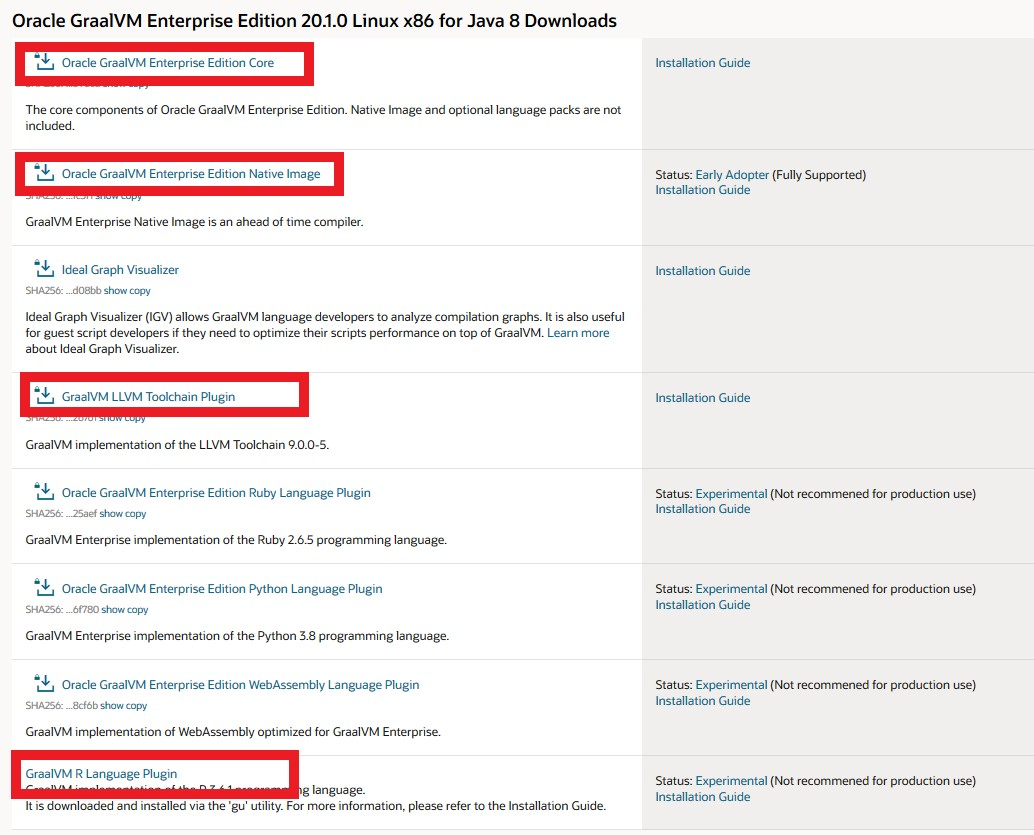
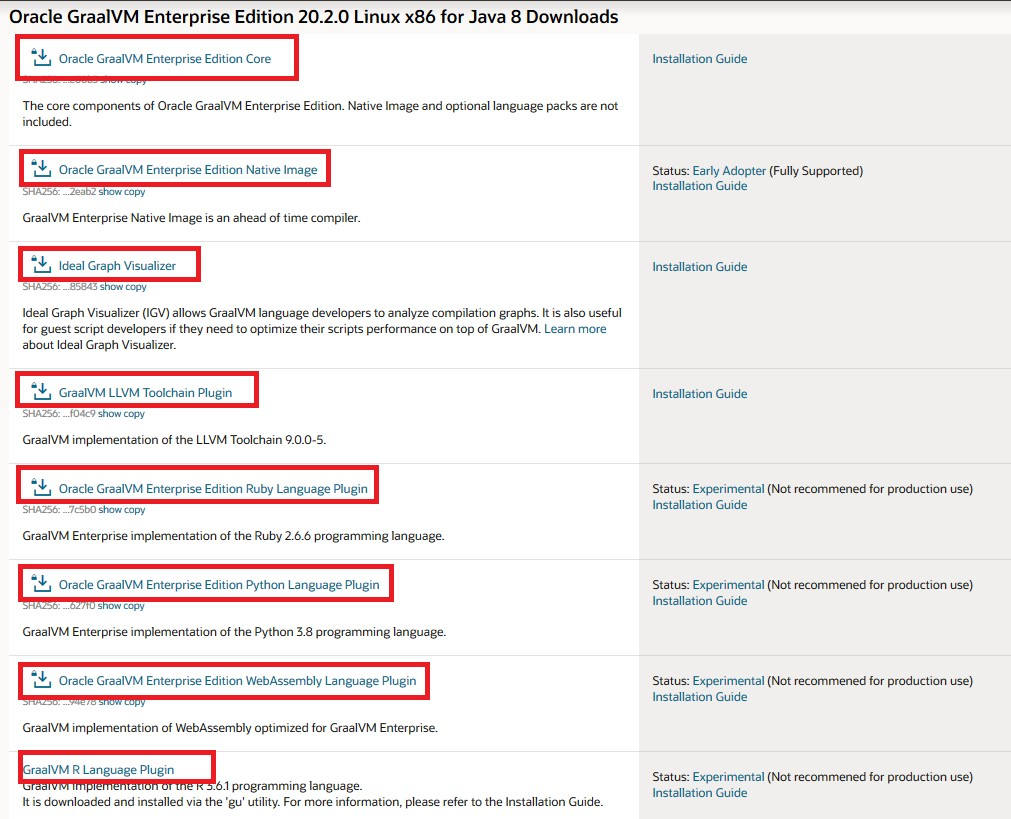
updated

diff --git a/README.md b/README.md
@@ -55,13 +55,14 @@ _Wednesday, 9 December 2020_
 <br/>
 
 (3)OSを選択後、以下のコンポーネントをダウンロードします。赤字表示のコンポーネントはこの演習に必要です。その他のオプショナルコンポーネントは演習では使いませんが、今後GraalVMの多くの機能を試したい場合はダウンロードしておいてください。
-*	<span style="color: red; ">Oracle GraalVM Enterprise Edition Core（必須）</span>
-*	<font color="Red">Oracle GraalVM Enterprise Edition Native Image（必須）</font>
+*	Oracle GraalVM Enterprise Edition Core（必須）
+*	Oracle GraalVM Enterprise Edition Native Image（必須）
+* Ideal Graph Visualizer（オプショナル）
 *	GraalVM LLVM Toolchain Plugin（オプショナル）
 *	Oracle GraalVM Enterprise Edition Ruby Language Plugin（オプショナル）
 * GraalVM Enterprise Edition Python Language Plugin（オプショナル）
 *	Oracle GraalVM Enterprise Edition WebAssembly（オプショナル）
-* <font color="Red">GraalVM R Language Plugin (必須） </font>   
+* GraalVM R Language Plugin (必須）   
 ※R Pluginは直接ダウンロードできず、GraalVMのインストール・ユーティリティー(guコマンド)を使用してインストールします。)
 
   ![Download Picture 3](images/GraalVMinstall03.JPG)
@@ -74,8 +75,8 @@ _Wednesday, 9 December 2020_
 <br/>
 
 コンポーネントをダウンロード後、Linuxのファイルシステム上に下記のようなモジュール一覧が表示されます。（赤線で囲まれている部分はこの演習で使うモジュールです）：
-* <font color="Red">graalvm-ee-java8-linux-amd64-20.1.0.tar.gz</font>
-* <font color="Red">llvm-toolchain-installable-java8-linux-amd64-20.1.0.jar</font>
+* graalvm-ee-java8-linux-amd64-20.1.0.tar.gz
+* llvm-toolchain-installable-java8-linux-amd64-20.1.0.jar
 *  native-image-installable-svm-svmee-java8-linux-amd64-20.1.0.jar
 *  python-installable-svm-svmee-java8-linux-amd64-20.1.0.jar
 *  namedruby-installable-svm-svmee-java8-linux-amd64-20.1.0.jar
